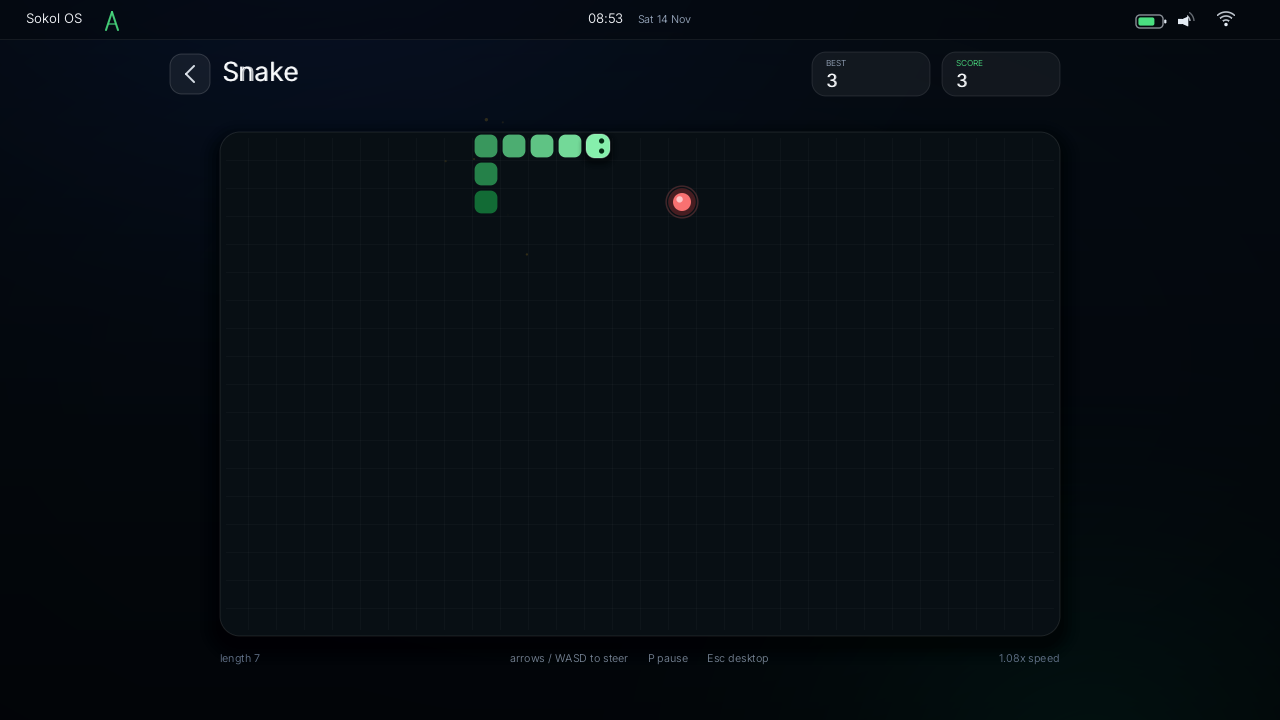
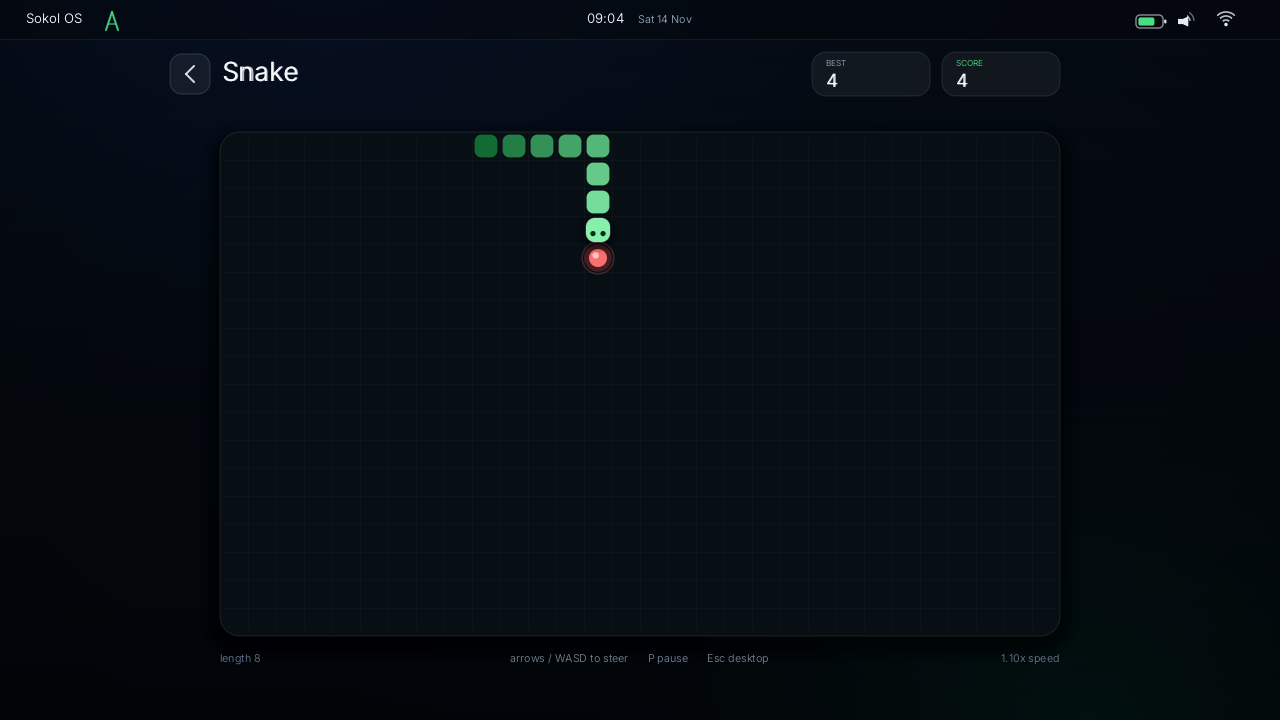
Disable depth in the blit pipeline, document the real numbers

Changed region(s): [[0.3438, 0.1833, 0.5625, 0.3972], [0.625, 0.0917, 0.6562, 0.1222], [0.4688, 0.0, 0.5, 0.0306]]

diff --git a/src/platform_sokol.c b/src/platform_sokol.c
@@ -139,6 +139,11 @@ static void init(void) {
             },
         },
         .primitive_type = SG_PRIMITIVETYPE_TRIANGLE_STRIP,
+        /* No depth test, no depth writes: this pipeline is 2D by contract. */
+        .depth = {
+            .write_enabled = false,
+            .compare_func = SG_COMPAREFUNC_ALWAYS,
+        },
         .label = "canvas-blit-pipeline",
     });
 
@@ -231,7 +236,7 @@ static void event(const sapp_event *ev) {
         app_input(g.app, &in);
         break;
     case SAPP_EVENTTYPE_RESIZED:
-        update_letterbox(ev->window_width, ev->window_height);
+        update_letterbox(ev->framebuffer_width, ev->framebuffer_height);
         break;
     default:
         break;

diff --git a/README.md b/README.md
@@ -18,7 +18,11 @@
 
 ![Загрузка](docs/01-boot-kernel.png)
 ![Рабочий стол](docs/03-desktop.png)
-![Змейка](docs/06-snake-game-over.png)
+![Змейка](docs/05-snake-play.png)
+![Game over](docs/06-snake-game-over.png)
+
+Все картинки в `docs/` и `build/frames/` получены командой `make frames`:
+это тот же код, что запускается в окне, только без окна и без GPU.
 
 ## Что здесь есть
 
@@ -34,46 +38,56 @@
 
 ## Никакого 3D
 
-Просьба «убрать 3D из sokol и OpenGL» выполнена буквально:
+Просьба «убрать 3D из sokol и OpenGL» выполнена буквально. В системе нет:
 
-* **нет** буфера глубины, трафарета, MSAA, матриц, проекций, камеры и
-  геометрии — в `sapp_desc` стоит `depth_format = SAPP_PIXELFORMAT_NONE`;
-* **нет** вершинных буферов: полноэкранный прямоугольник генерируется в
-  вершинном шейдере из `gl_VertexID`, индекс `0..3`;
-* **один** шейдер, **один** пайплайн, **одна** текстура на всю программу;
-* каждый кадр — это `memcpy` статического слоя и десяток спрайтов на CPU,
-  затем одна загрузка текстуры и два треугольника;
-* если на экране ничего не движется, кадр не рисуется вовсе:
-  `app_needs_frame()` возвращает `0`, и платформенный слой не обновляет
-  текстуру и не трогает CPU.
+* матриц, проекций, камеры, моделей, нормалей, освещения — ни одной
+  `mat4`, ни одного `glUniformMatrix`;
+* тестов и записей глубины: в пайплайне стоит
+  `.depth = { .write_enabled = false, .compare_func = SG_COMPAREFUNC_ALWAYS }`,
+  поэтому буфер глубины, который создаёт оконная система, не получает ни
+  одного пикселя;
+* MSAA, трафарета, нескольких проходов и второй текстуры.
 
-OpenGL остаётся только транспортом «показать готовую картинку в окне» —
-это единственный способ, которым `sokol_app` выводит пиксели на экран.
-Никаких 3D-API, кроме `glTexSubImage`-эквивалента и одного квада, не
-вызывается.
+Вся «сцена» — это **одна текстура 1280×720, один шейдер, один пайплайн и
+четыре вершины** (64 байта: `position` + `texcoord0`). Кадр выглядит так:
+
+```
+CPU: memcpy статического слоя (0,3 мс) + спрайты -> канва RGBA8
+     одна sg_update_image()                       -> текстура на GPU
+     sg_begin_default_pass() + sg_draw(0,4,1)     -> два треугольника
+```
+
+Канва хранится в порядке байт RGBA — ровно в том, который ждёт
+`SG_PIXELFORMAT_RGBA8`, поэтому загрузка текстуры это `memcpy`, без
+перестановки каналов. Тот же буфер уходит в PNG, когда скриншоты
+рендерятся без окна.
+
+OpenGL здесь остаётся только транспортом «показать готовую картинку» — это
+единственный способ, которым `sokol_app` выводит пиксели на экран. Никаких
+3D-вызовов, кроме одного квада, не происходит.
 
 ## Производительность
 
-Замер на 1280×720 (один поток, `-O2`), кадр целиком: растеризация в память
-плюс то, что уходит на экран:
+Замер на 1280×720, один поток, `-O2`, кадр целиком (растеризация в память):
 
 | Экран | Время кадра | Что рисуется |
 | --- | --- | --- |
-| Загрузочная консоль | **0,62 мс** | текст 8×8, курсор, подсказка |
-| Рабочий стол | **3,0 мс** | восстановление статического слоя, часы, иконка |
-| Змейка | **1,5 мс** | статический слой, змея, яблоко, частицы, HUD |
-| Рабочий стол без движения | **0 мс** | кадр не рисуется и текстура не обновляется |
+| Загрузочная консоль | **0,9 мс** | текст 8×8, курсор, подсказка |
+| Рабочий стол | **3,4 мс** | статический слой, часы, иконка с тенью |
+| Змейка | **1,8 мс** | статический слой, змея, яблоко, частицы, HUD |
+| Рабочий стол без движения | **0 мс** | кадр не рисуется и текстура не обновляется: CPU спит, GPU только перерисовывает уже готовую картинку |
 
 Почему так быстро:
 
 * **статический слой** — обои, панель, рамка поля и сетка рисуются один раз
   при входе на экран и потом копируются одной `memcpy` (3,7 МБ, ~0,3 мс);
-* **глифы кешируются**: TrueType-контур растеризуется один раз на пару
-  «символ + размер» и дальше просто смешивается с фоном;
+* **глифы кешируются**: контур TrueType растеризуется один раз на пару
+  «символ + размер», дальше это простое смешивание с фоном;
 * **сглаживание без масок**: покрытие пикселя считается из расстояния до
   фигуры, поэтому нет промежуточных буферов и лишних проходов;
 * **никаких аллокаций в кадре** — всё выделено при старте;
-* **сон в простое**: неподвижный рабочий стол не занимает CPU вообще.
+* **сон в простое**: `app_needs_frame()` возвращает 0, и платформенный слой
+  не рисует, не загружает текстуру и не трогает CPU.
 
 ## Сборка
 
